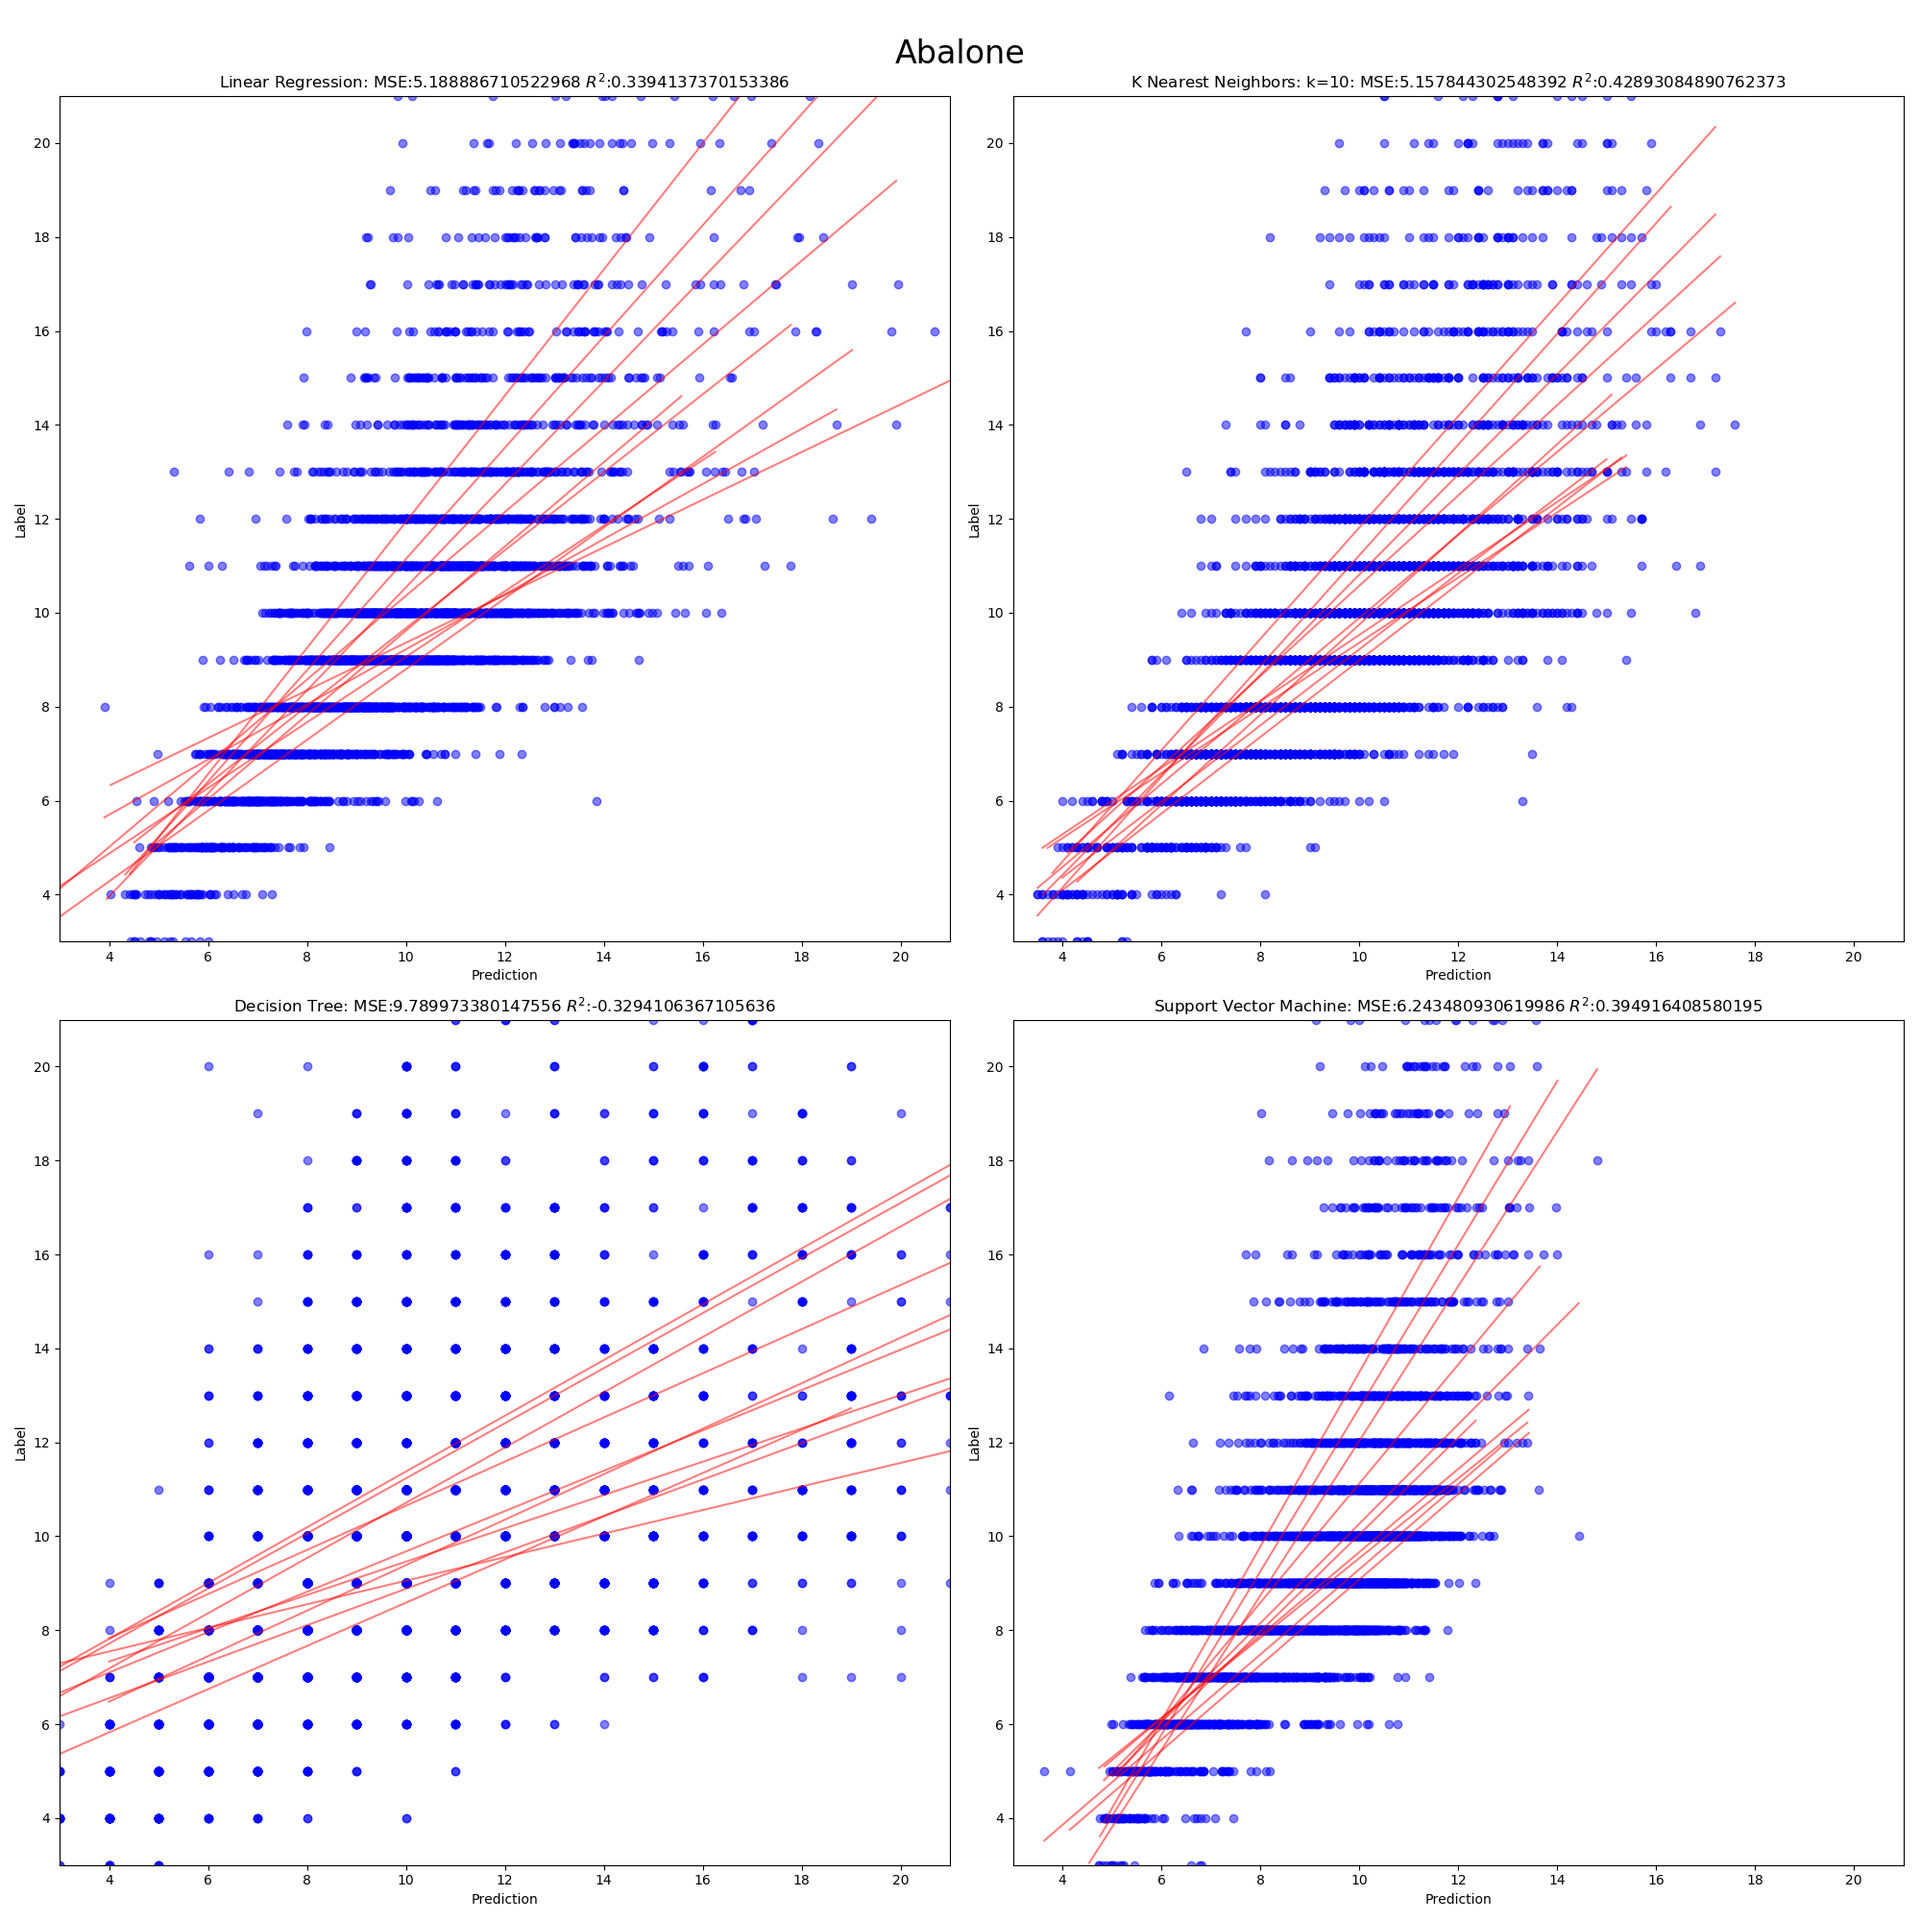
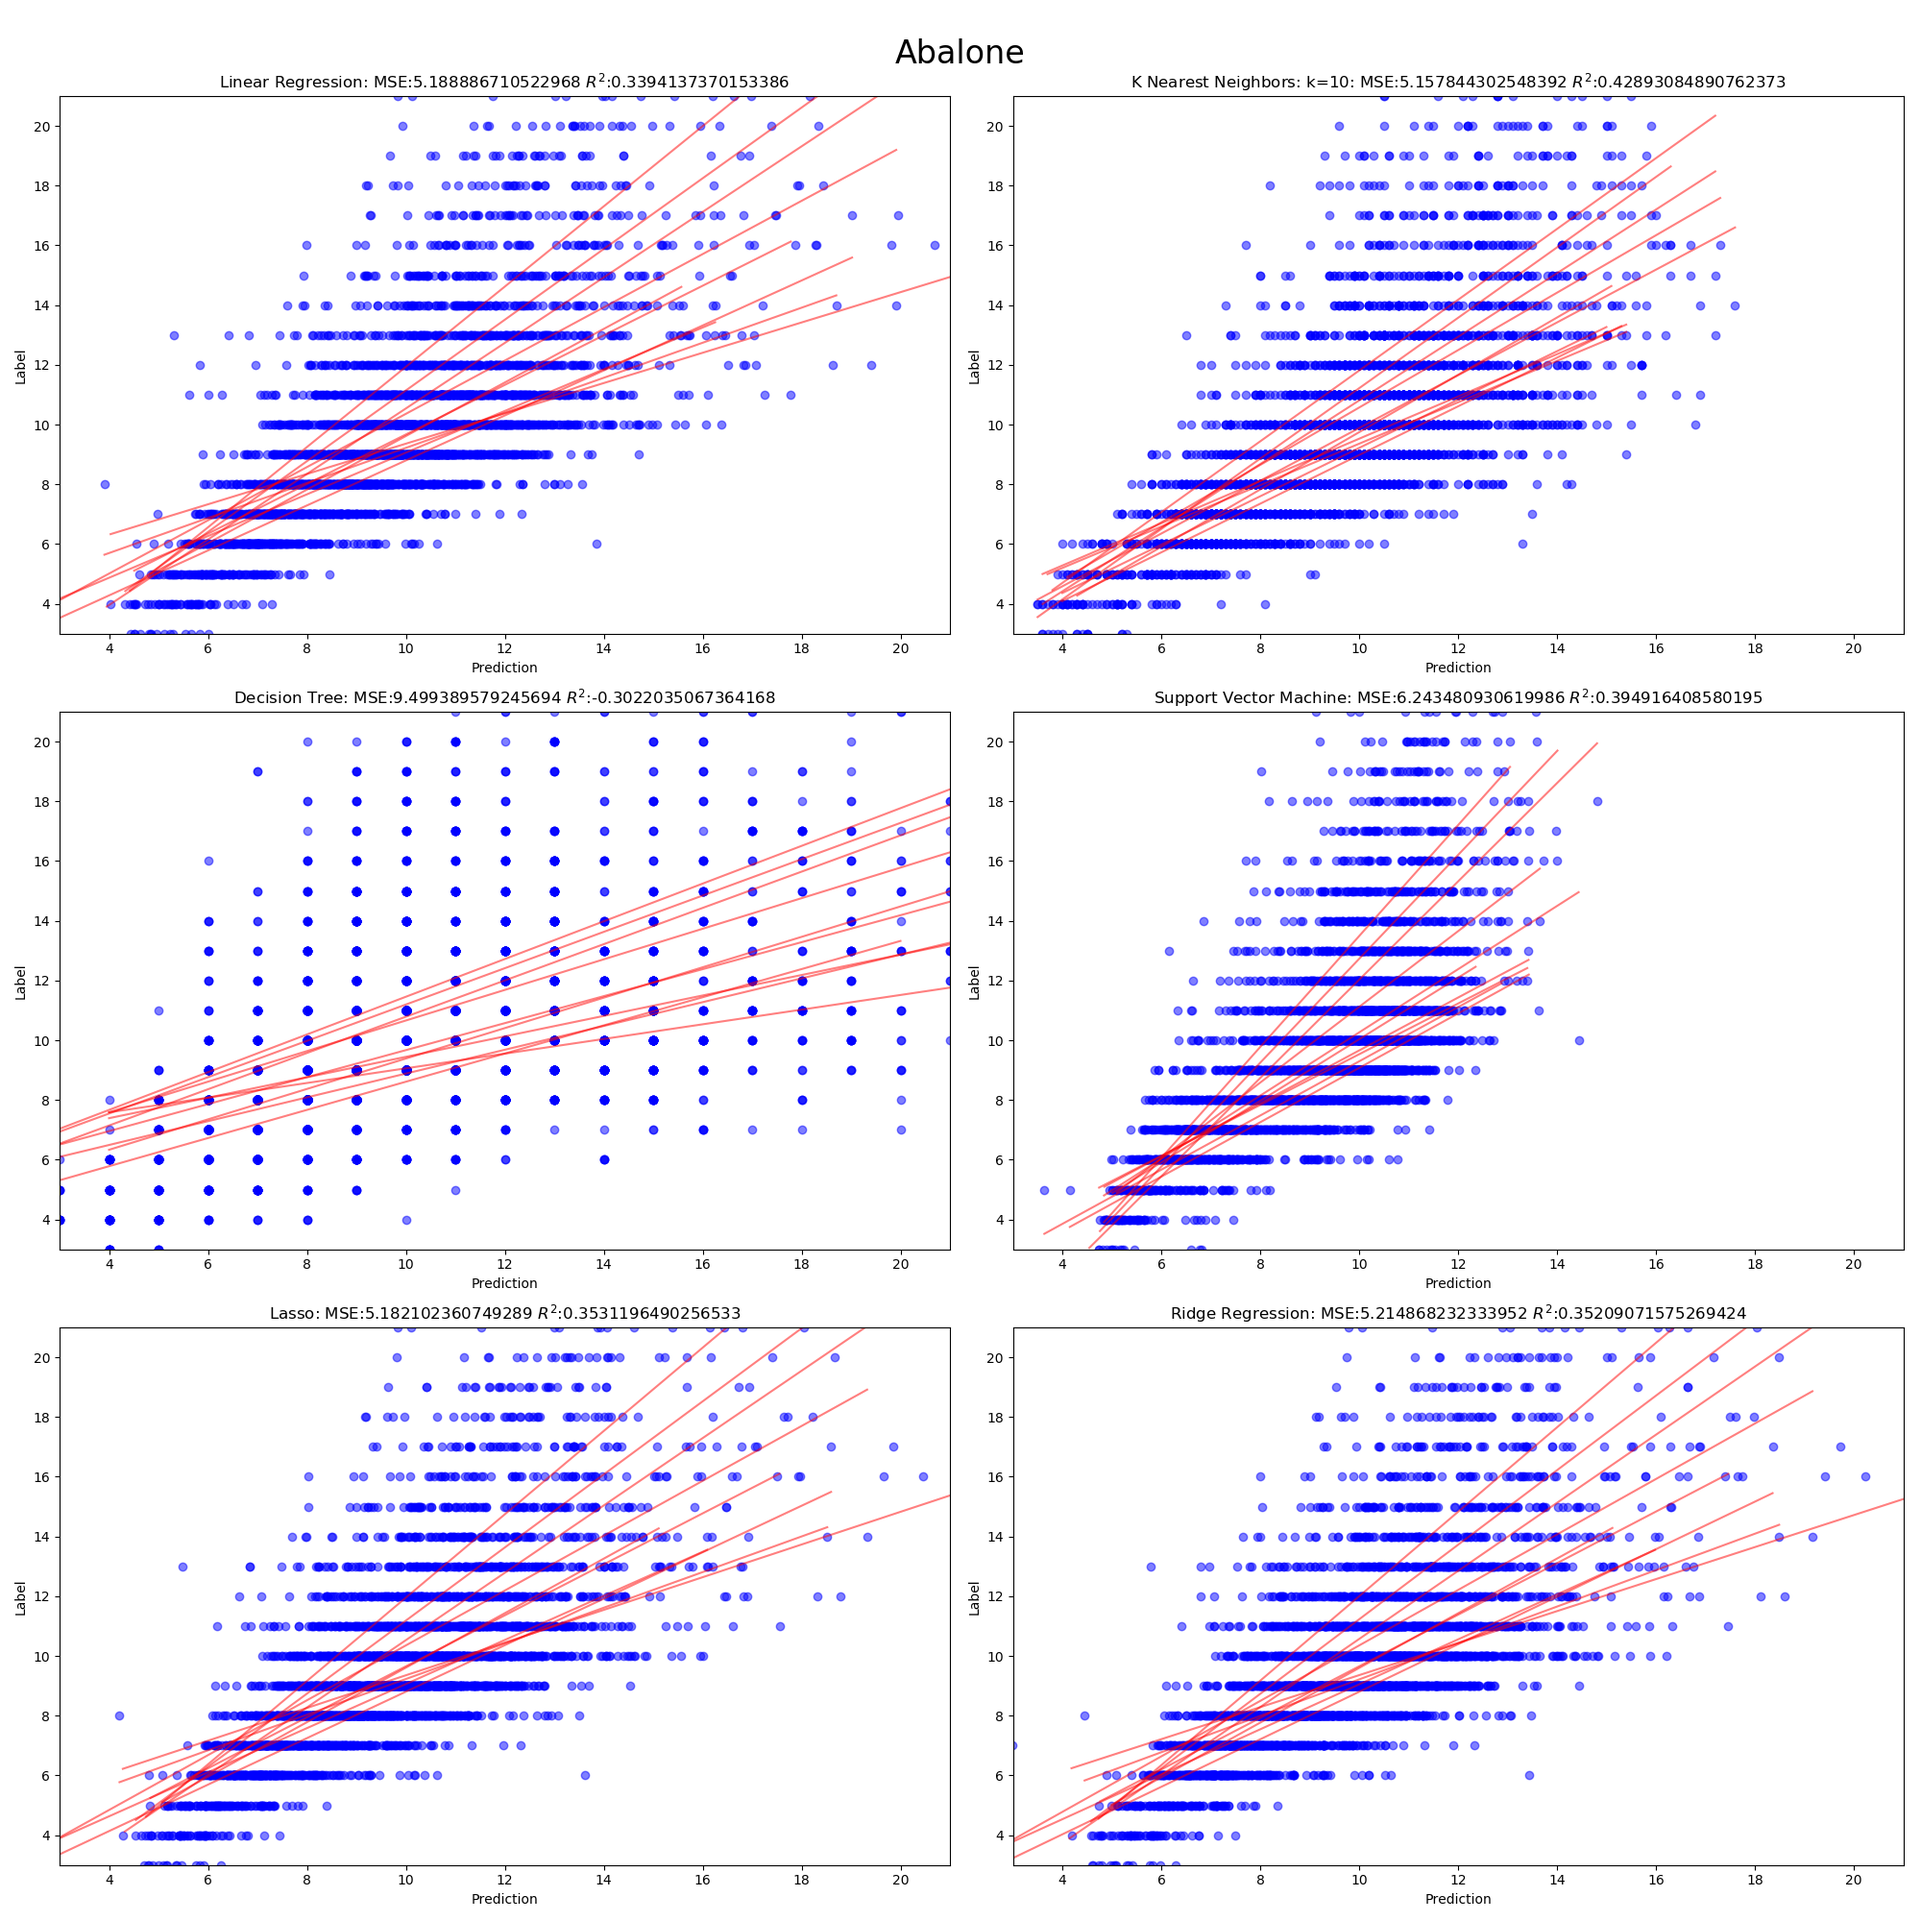
Added Lasso and Ridge Regression to Regressors

diff --git a/src/regression.py b/src/regression.py
@@ -20,7 +20,9 @@ def main():
     models = [reg.Model_LinearRegression(dict()),
               reg.Model_KnnRegression({'n':10}),
               reg.Model_DecisionTree(dict()),
-              reg.Model_SupportVectorMachine(dict())]
+              reg.Model_SupportVectorMachine(dict()),
+              reg.Model_Lasso(dict()),
+              reg.Model_RidgeRession(dict())]
 
     for data in [reg_data.Abalone, reg_data.ForestFires, reg_data.WineQuality]:
         x, y = data.get_preprocessed_XY()
@@ -29,12 +31,12 @@ def main():
         print('==============================')
         print(data.get_name())
         results = []
-        
-        
-        f, a = plt.subplots(nrows=2, ncols=2, figsize=(20,20))
+
+
+        f, a = plt.subplots(nrows=3, ncols=2, figsize=(20,20))
         a = np.array(a).flatten()
         plt.suptitle(data.get_name(), fontsize=24)
-        
+
         for i, model in enumerate(models):
 
             mse, r2 = [], []
@@ -48,13 +50,11 @@ def main():
                 y_hat = model.predict(x_test)
 
                 poly = np.poly1d(np.polyfit(y_hat, y_test, 1))
-                
-                
 
                 mse.append(mean_squared_error(y_test, y_hat))
                 r2.append(r2_score(y_test, y_hat, multioutput=None))
                 a[i].scatter(y_hat, y_test, alpha=0.5, color='b')
-                a[i].plot([y_hat.min(), y_hat.max()], 
+                a[i].plot([y_hat.min(), y_hat.max()],
                           poly([y_hat.min(), y_hat.max()]),
                           color='r',
                           alpha=0.5)
@@ -62,8 +62,8 @@ def main():
                 a[i].set_ylabel('Label')
                 a[i].set_xlim(y_test.min(), y_test.max())
                 a[i].set_ylim(y_test.min(), y_test.max())
-      
-            
+
+
             name = model.get_name()
             mse = np.mean(mse)
             r2 = np.mean(r2)
@@ -75,8 +75,8 @@ def main():
             print('Report for {}'.format(name))
             print('MSE: {}'.format(mse))
             print('R2: {}'.format(r2))
-            
-            
+
+
         f.tight_layout()
         plt.subplots_adjust(top=0.95)
         plt.savefig('{}.png'.format(data.get_name()))

diff --git a/src/regressors.py b/src/regressors.py
@@ -1,6 +1,8 @@
 
 import numpy as np
 from sklearn.linear_model import LinearRegression
+from sklearn.linear_model import LassoCV
+from sklearn.linear_model import RidgeCV
 from sklearn.neighbors import KNeighborsRegressor
 from sklearn.tree import DecisionTreeRegressor
 from sklearn.svm import SVR
@@ -108,3 +110,43 @@ class Model_SupportVectorMachine(Regressor):
 
     def get_name(self):
         return 'Support Vector Machine'
+
+class Model_Lasso(Regressor):
+    def __init__(self, params:dict):
+        super().__init__(params)
+
+    def setup(self, params:dict):
+        self._model = LassoCV()
+
+    def fit(self, x:np.ndarray, y:np.ndarray):
+        self._fitted_model = self._model.fit(x, y)
+
+    def predict(self, x:np.ndarray) -> np.ndarray:
+        return self._fitted_model.predict(x)
+
+    def get_learned_features(self) -> np.ndarray:
+        if self._fitted_model:
+            return np.array([])
+
+    def get_name(self):
+        return 'Lasso'
+
+class Model_RidgeRession(Regressor):
+    def __init__(self, params:dict):
+        super().__init__(params)
+
+    def setup(self, params:dict):
+        self._model = RidgeCV()
+
+    def fit(self, x:np.ndarray, y:np.ndarray):
+        self._fitted_model = self._model.fit(x, y)
+
+    def predict(self, x:np.ndarray) -> np.ndarray:
+        return self._fitted_model.predict(x)
+
+    def get_learned_features(self) -> np.ndarray:
+        if self._fitted_model:
+            return np.array([])
+
+    def get_name(self):
+        return 'Ridge Regression'
